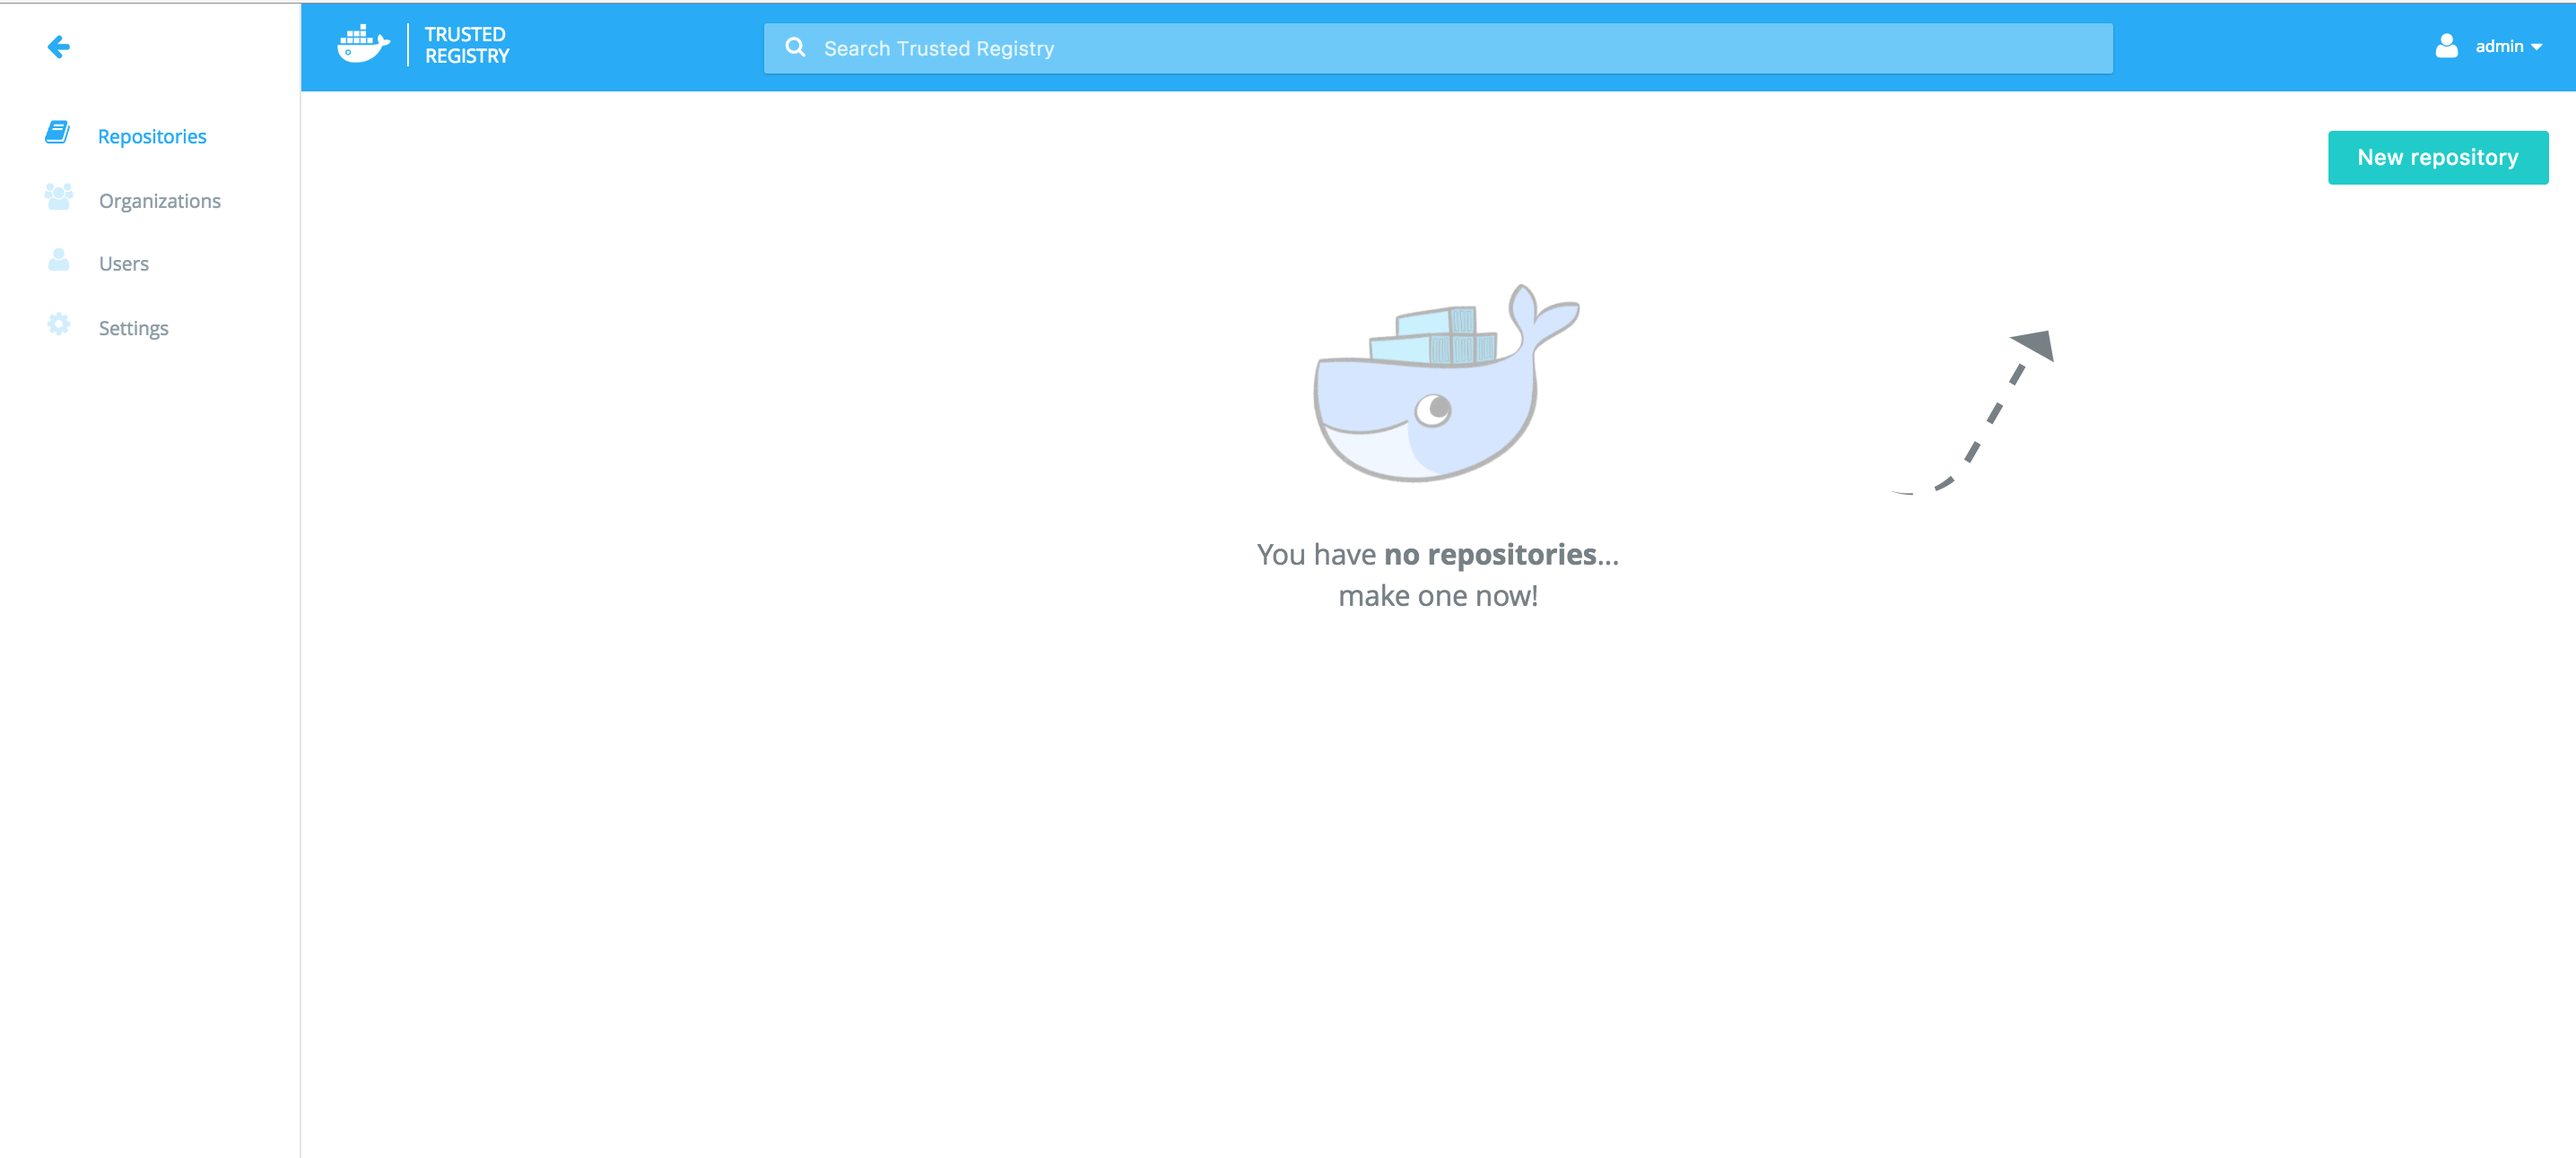
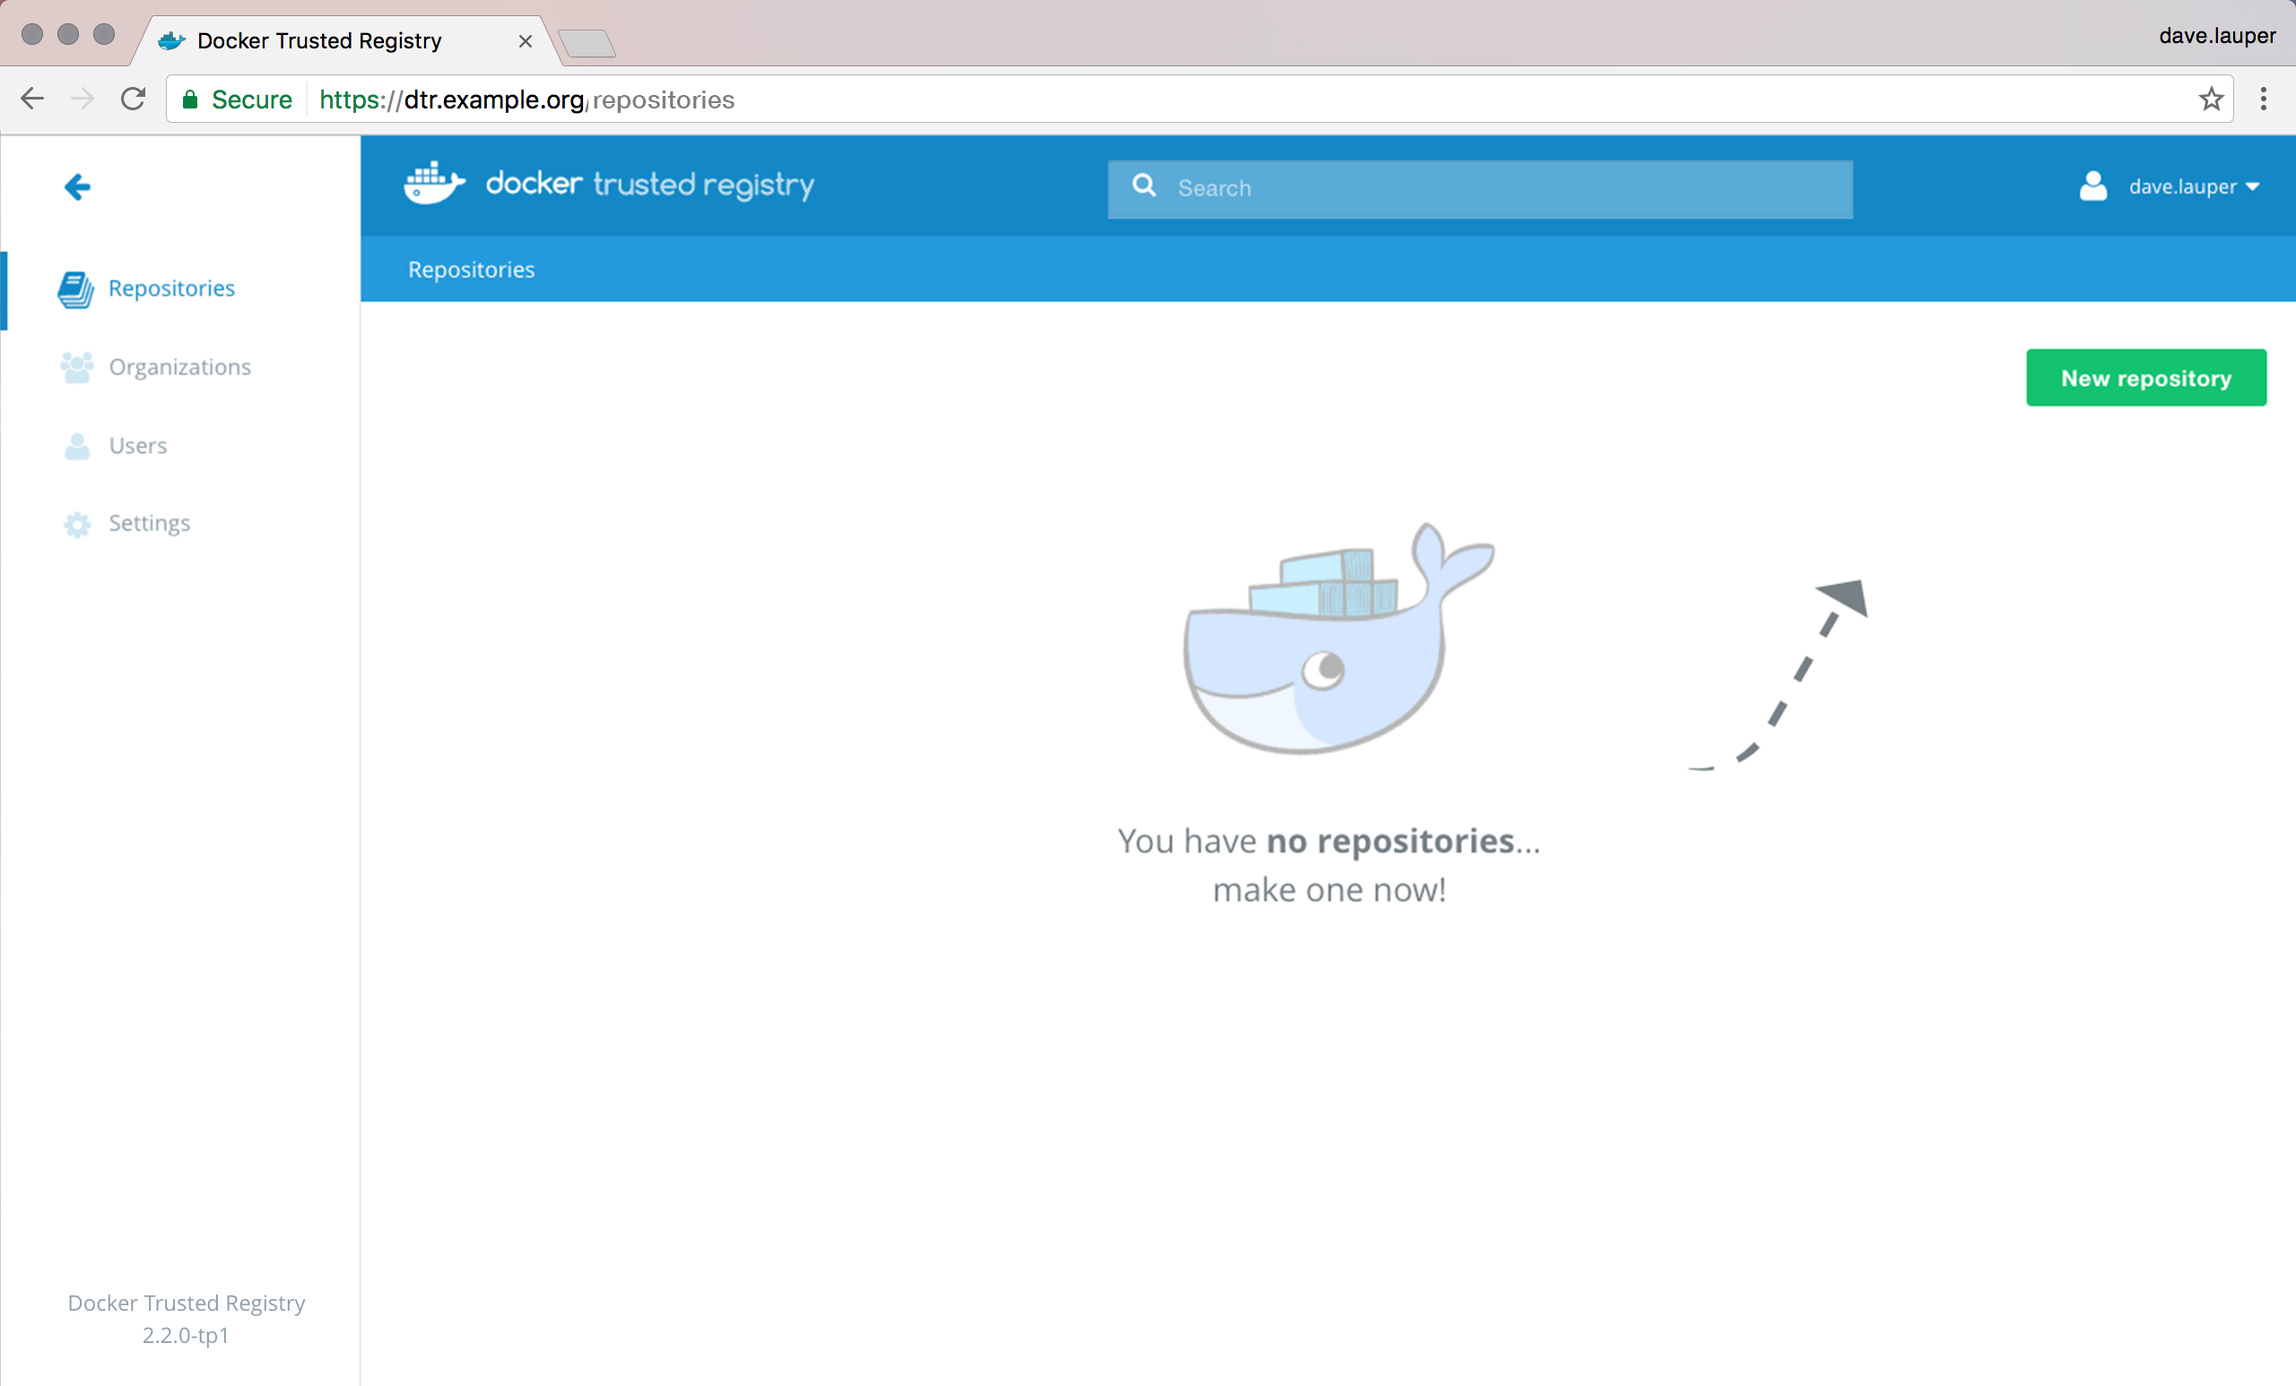
Update screenshots for /datacenter/install/aws/

diff --git a/datacenter/install/aws.md b/datacenter/install/aws.md
@@ -128,11 +128,11 @@ above configuration options.
 
 - Click on **Launch Stack** below. This link will take you to AWS cloudformation portal.
 
-	[![Docker Datacenter on Docker for AWS](https://s3.amazonaws.com/cloudformation-examples/cloudformation-launch-stack.png)]({{ launch_url }}{{ template_url }})
+	[![Docker Datacenter on Docker for AWS](https://s3.amazonaws.com/cloudformation-examples/cloudformation-launch-stack.png)]({{ launch_url }}{{ template_url }}){: .with-border}
 
 - Confirm your AWS Region that you'd like to launch this stack in (top right corner)
 - Provide the required parameters and click **Next** (see below)
-![console_installation.png](../images/console_installation.png)
+![console_installation.png](../images/console_installation.png){: .with-border}
 - **Confirm** and **Launch**
 - Once the stack is successfully created (it does take between 10-15 mins), click on **Output** tab to see the URLs of UCP and DTR.
 
@@ -214,15 +214,16 @@ which is a highly optimized AMI built specifically for running Docker on AWS
 Once the stack is successfully created, you can access UCP and DTR URLs in the
 output tab as follows:
 
-![insecure.png](../images/output.png)
+![insecure.png](../images/output.png){: .with-border}
 
 When accessing UCP and DTR, log in using the username and password that you
 provided when you launched the cloudformation stack. You should see the below
 landing pages:
 
 
-![ucp.png](../images/ucp.png)
-![dtr.png](../images/dtr.png)
+![ucp.png](../images/ucp.png){: .with-border}
+
+![dtr.png](../images/dtr.png){: .with-border}
 
 > Note: During the installation process, a self-signed certificate is generated
 for both UCP and DTR. You can replace these certificates with your own
@@ -302,11 +303,11 @@ provides multiple advantages to easily deploy and access your application.
     ```
     b. Notice the updated ELB configuration:
 
-    ![elb_listeners_update.png](../images/elb_listeners_update.png)
+    ![elb_listeners_update.png](../images/elb_listeners_update.png){: .with-border}
 
     c. Access your application using **DefaultExternalTarget** DNS and published port:
 
-    ![app.png](../images/app.png)
+    ![app.png](../images/app.png){: .with-border}
 
 
 2.  **Swarm Mode Routing Mesh**
@@ -382,12 +383,12 @@ created when filling out the CloudFormation template for Docker for AWS.
 Once you find it, click the checkbox, next to the name. Then Click on the
 "Edit" button on the lower detail pane.
 
-![console_installation.png](../images/autoscale_update.png)
+![console_installation.png](../images/autoscale_update.png){: .with-border}
 
 Change the "Desired" field to the size of the worker pool that you would like,
 and hit "Save".
 
-![console_installation.png](../images/autoscale_save.png)
+![console_installation.png](../images/autoscale_save.png){: .with-border}
 
 This will take a few minutes and add the new workers to your swarm
 automatically. To lower the number of workers back down, you just need to
@@ -399,7 +400,7 @@ Go to the CloudFormation management page, and click the checkbox next to the
 stack you want to update. Then Click on the action button at the top, and
 select "Update Stack".
 
-![console_installation.png](../images/cloudformation_update.png)
+![console_installation.png](../images/cloudformation_update.png){: .with-border}
 
 Pick "Use current template", and then click "Next". Fill out the same parameters
 you have specified before, but this time, change your worker count to the new
